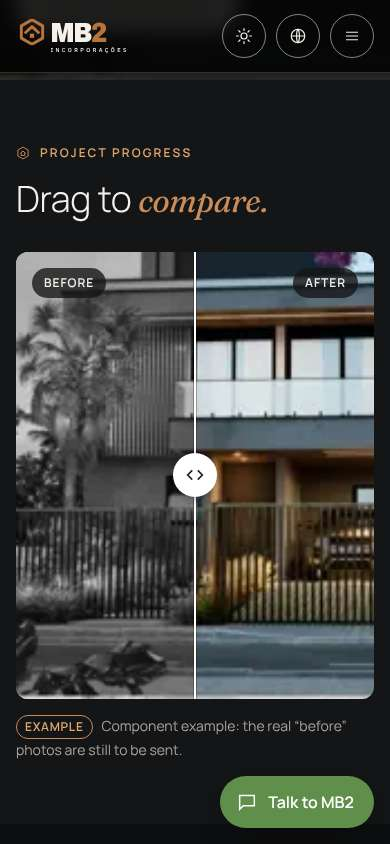
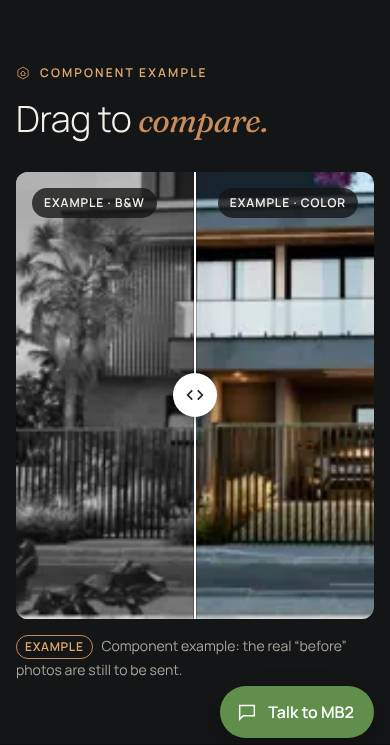
Antes/depois: demo claramente rotulado como exemplo e ajustes da revisão
Chips, título e aria-label do modo demo dizem 'Exemplo'; antes=null no demo; toque não faz a divisória pular ao rolar; valuetext acompanha o idioma; esc() no nome da foto.

Claude-Session: https://claude.ai/code/session_01WWtxx7KJuJaf4UCpU3WSBE

diff --git a/js/site.js b/js/site.js
@@ -167,7 +167,6 @@
     }
     textosDestaque();
 
-
     // ----- Antes/depois: só existe se a obra em destaque tiver o campo "antes_depois" -----
     const ad = d.antes_depois;
     if (ad && ad.depois && (ad.antes || ad.demo)) montarAntesDepois(ad);
@@ -236,14 +235,13 @@
     }
   }
 
-
   // ---------- Comparador antes/depois ----------
   // Modo demo (ad.demo): mostra a mesma foto real em cinza contra a colorida, rotulado como exemplo.
   function montarAntesDepois(ad) {
     const secao = $("#evolucao"), alvo = $("#antes-depois");
     const demo = !!ad.demo;
     const antesNome = demo ? ad.depois : ad.antes;
-    const img = (nome, cls) => `<img class="${cls}" src="imagens/obras/${nome}-480.webp" srcset="imagens/obras/${nome}-480.webp 480w, imagens/obras/${nome}-1400.webp 1400w" sizes="(min-width: 821px) 1100px, 100vw" alt="" loading="lazy" decoding="async" draggable="false">`;
+    const img = (nome, cls) => `<img class="${cls}" src="imagens/obras/${esc(nome)}-480.webp" srcset="imagens/obras/${esc(nome)}-480.webp 480w, imagens/obras/${esc(nome)}-1400.webp 1400w" sizes="(min-width: 821px) 1100px, 100vw" alt="" loading="lazy" decoding="async" draggable="false">`;
     alvo.innerHTML = `<figure class="ad">
       <div class="ad-palco${semMovimento ? "" : " ad-entra"}">
         ${img(ad.depois, "ad-img")}
@@ -264,9 +262,16 @@
         alca.setAttribute("aria-valuetext", tr("ad.valor", "{n}% da foto de antes visível").replace("{n}", v));
       }
     }
+    // No demo, nada de "Antes/Depois" ou "Evolução da obra": a foto cinza não é registro de obra
+    const chapeuAd = $(".chapeu span:last-child", secao);
+    if (demo) { chapeuAd.removeAttribute("data-i18n"); secao.removeAttribute("data-i18n-attr"); }
     function textos() {
-      $(".ad-chip-antes", alvo).textContent = tr("ad.antes", "Antes");
-      $(".ad-chip-depois", alvo).textContent = tr("ad.depois", "Depois");
+      if (demo) {
+        chapeuAd.textContent = tr("ad.chapeuDemo", "Exemplo do comparador");
+        secao.setAttribute("aria-label", tr("ad.chapeuDemo", "Exemplo do comparador"));
+      }
+      $(".ad-chip-antes", alvo).textContent = demo ? tr("ad.exCinza", "Exemplo · P&B") : tr("ad.antes", "Antes");
+      $(".ad-chip-depois", alvo).textContent = demo ? tr("ad.exCor", "Exemplo · cor") : tr("ad.depois", "Depois");
       alca.setAttribute("aria-label", tr("ad.slider", "Comparar antes e depois"));
       $$(".ad-img", alvo).forEach((i) => (i.alt = ""));
       $(".ad-legenda", alvo).innerHTML = demo
@@ -274,6 +279,7 @@
         : [ad.legenda_antes && `${esc(tr("ad.antes", "Antes"))}: ${esc(ad.legenda_antes)}`, ad.legenda_depois && `${esc(tr("ad.depois", "Depois"))}: ${esc(ad.legenda_depois)}`].filter(Boolean).join(" &nbsp;·&nbsp; ");
       palco.setAttribute("role", "group");
       palco.setAttribute("aria-label", tr("ad.fotoAlt", "Comparação da mesma casa"));
+      aplica(pos);
     }
     textos();
     document.addEventListener("mb2:lang", textos);
@@ -298,13 +304,15 @@
       palco.classList.remove("ad-entra");
       palco.setPointerCapture(e.pointerId);
       palco.classList.add("ad-arrasta");
-      aplica(daPosicao(e));
+      // No toque, só move depois do primeiro arrasto horizontal: quem põe o dedo para rolar a página não faz a divisória pular
+      if (e.pointerType !== "touch") aplica(daPosicao(e));
       alca.focus({ preventScroll: true });
     });
     palco.addEventListener("pointermove", (e) => { if (arrastando) aplica(daPosicao(e)); });
     const fim = () => { arrastando = false; palco.classList.remove("ad-arrasta"); };
     palco.addEventListener("pointerup", fim);
     palco.addEventListener("pointercancel", fim);
+    palco.addEventListener("lostpointercapture", fim);
 
     // Teclado: setas, Home/End, PageUp/PageDown
     alca.addEventListener("keydown", (e) => {

diff --git a/js/i18n.js b/js/i18n.js
@@ -150,6 +150,9 @@
       'ad.exemplo': 'Example',
       'ad.demoNota': 'Component example: the real “before” photos are still to be sent.',
       'ad.fotoAlt': 'Comparison of the same home',
+      'ad.chapeuDemo': 'Component example',
+      'ad.exCinza': 'Example · B&W',
+      'ad.exCor': 'Example · color',
 
       'zap.texto': 'Talk to MB2',
 
@@ -291,6 +294,9 @@
       'ad.exemplo': 'Ejemplo',
       'ad.demoNota': 'Ejemplo del componente: las fotos reales del “antes” aún están por enviar.',
       'ad.fotoAlt': 'Comparación de la misma casa',
+      'ad.chapeuDemo': 'Ejemplo del comparador',
+      'ad.exCinza': 'Ejemplo · B/N',
+      'ad.exCor': 'Ejemplo · color',
 
       'zap.texto': 'Habla con MB2',
 
@@ -432,6 +438,9 @@
       'ad.exemplo': 'Exemple',
       'ad.demoNota': 'Exemple du composant : les vraies photos « avant » restent à envoyer.',
       'ad.fotoAlt': 'Comparaison de la même maison',
+      'ad.chapeuDemo': 'Exemple du comparateur',
+      'ad.exCinza': 'Exemple · N&B',
+      'ad.exCor': 'Exemple · couleur',
 
       'zap.texto': 'Parler à MB2',
 
@@ -492,6 +501,9 @@
     'ad.exemplo': 'Exemplo',
     'ad.demoNota': 'Exemplo do componente: fotos reais do “antes” ainda a enviar.',
     'ad.fotoAlt': 'Comparação da mesma casa',
+    'ad.chapeuDemo': 'Exemplo do comparador',
+    'ad.exCinza': 'Exemplo · P&B',
+    'ad.exCor': 'Exemplo · cor',
     'pendente': 'a confirmar'
   };
 
